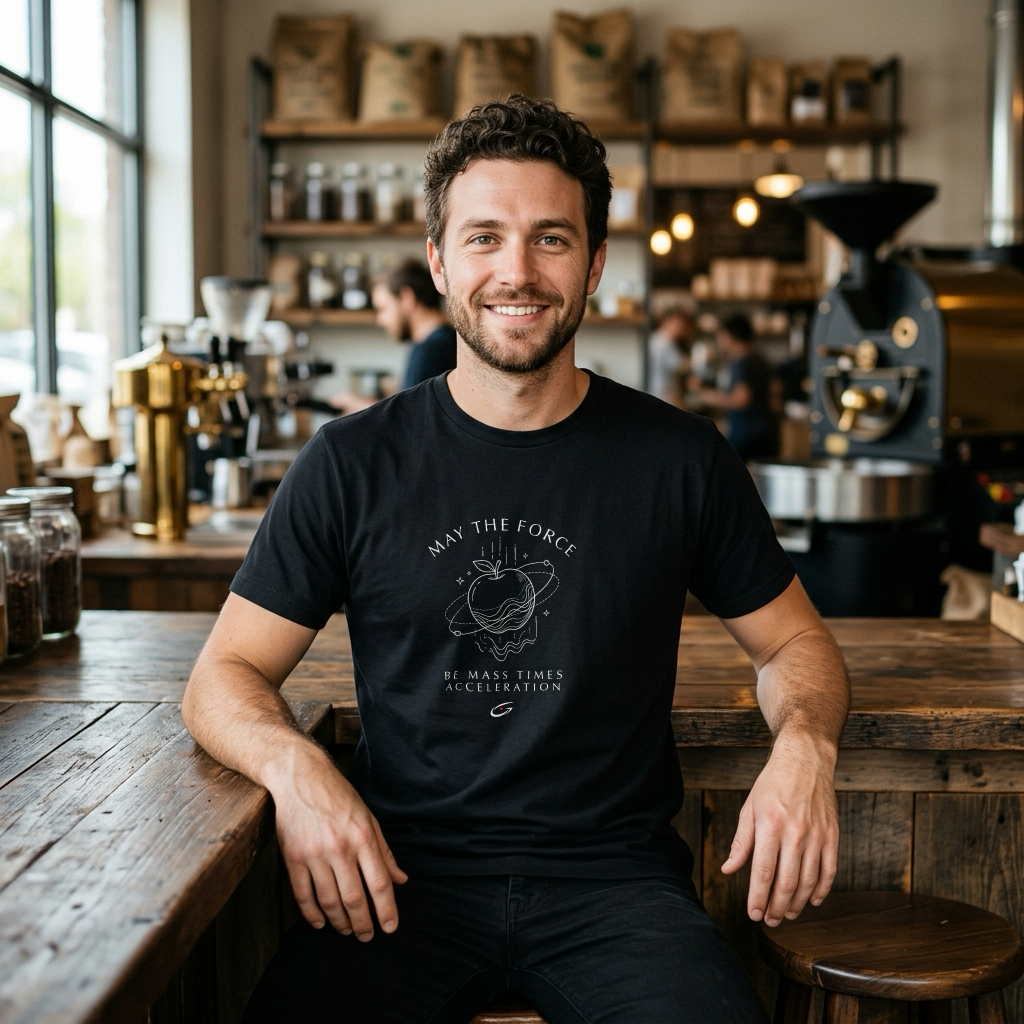
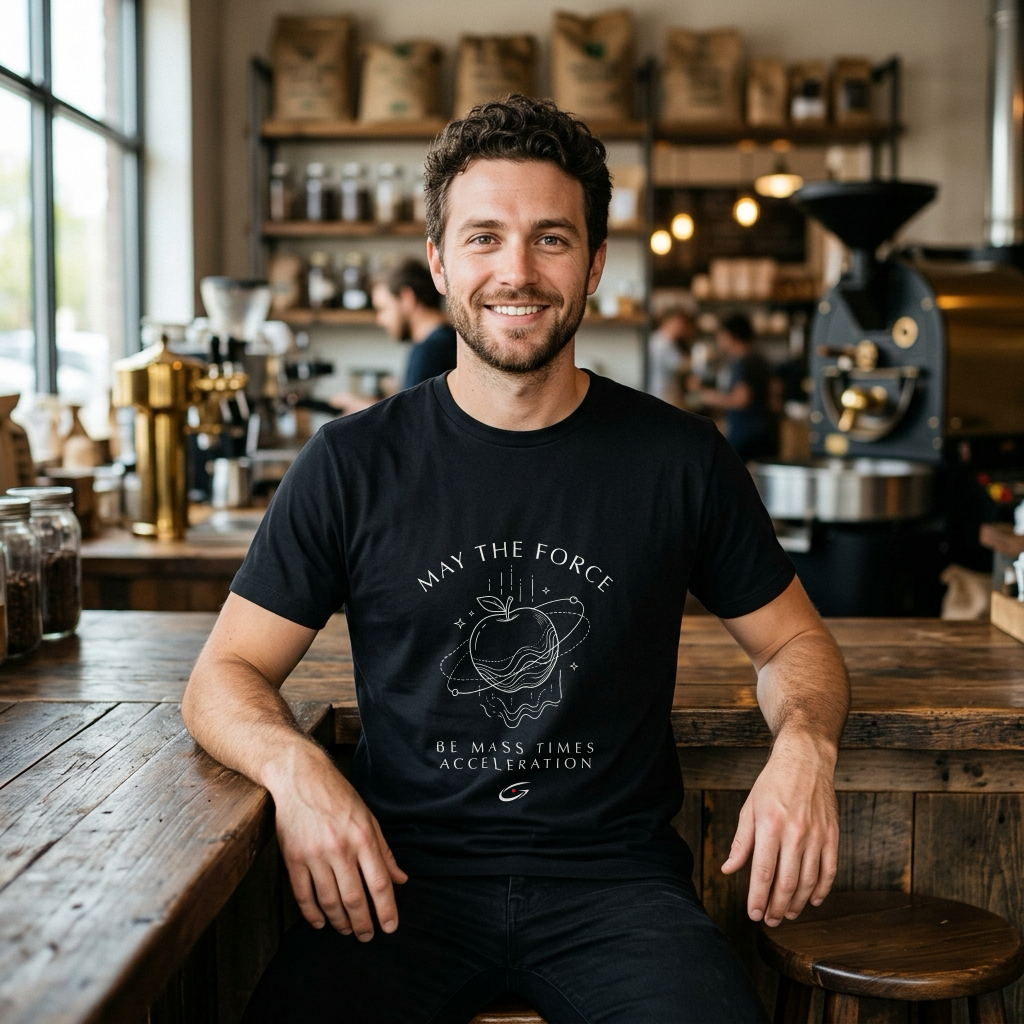
Update all 6 T-shirts with 8 unisex Printify-style placements (4M/4F, White & Black)

Changed region(s): [[0.4062, 0.5, 0.5938, 0.7812]]

diff --git a/index.html b/index.html
@@ -784,7 +784,7 @@
           <button class="filter-btn" data-topic="mechanics">Classical &amp; Thermodynamics</button>
         </div>
       </div>
-      <div class="count-label" id="countLabel">Showing 21 items &middot; 96 visuals</div>
+      <div class="count-label" id="countLabel">Showing 21 items &middot; 120 visuals</div>
     </div>
 
     <main id="catalogContainer"></main>
@@ -828,7 +828,7 @@
         topic: 'quantum',
         topicLabel: 'Quantum Mechanics',
         mugDesc: "Original hand-drawn split-character illustration blending an alive feline half with a skeletal half inside an open box, framed by orbital sparks on an 11oz white ceramic mug.",
-        tshirtDesc: "Centered chest print of the split alive/skeletal Schrödinger's Cat paradox across matte black, crisp white, and natural cream heavyweight cotton crew-neck tees.",
+        tshirtDesc: "Centered chest print of the split alive/skeletal Schrödinger's Cat paradox across matte black and crisp white relaxed unisex crew-neck tees.",
         hoodieDesc: "Pocket-safe centered chest print of the split alive/skeletal Schrödinger's Cat paradox across matte black and crisp white kangaroo-pocket pullover hoodies.",
         mugImages: [
           { src: './mugs/shrodingers/mockup.png',      label: 'Studio 11oz' },
@@ -839,10 +839,14 @@
         ],
         tshirtImages: [
           { src: './tshirts/shrodingers/mockup.png',      label: 'Studio (Black)' },
-          { src: './tshirts/shrodingers/placement_1.png', label: 'Record Store (White)' },
-          { src: './tshirts/shrodingers/placement_2.png', label: 'Rooftop (Cream)' },
-          { src: './tshirts/shrodingers/placement_3.png', label: 'Courtyard (Black)' },
-          { src: './tshirts/shrodingers/placement_4.png', label: 'Studio Lounge (Black)' }
+          { src: './tshirts/shrodingers/placement_1.png', label: 'M · White (Record Store)' },
+          { src: './tshirts/shrodingers/placement_2.png', label: 'M · White (Rooftop)' },
+          { src: './tshirts/shrodingers/placement_3.png', label: 'M · Black (Coworking)' },
+          { src: './tshirts/shrodingers/placement_4.png', label: 'M · Black (Roastery)' },
+          { src: './tshirts/shrodingers/placement_5.png', label: 'F · White (Studio)' },
+          { src: './tshirts/shrodingers/placement_6.png', label: 'F · White (Park Walk)' },
+          { src: './tshirts/shrodingers/placement_7.png', label: 'F · Black (Kitchen)' },
+          { src: './tshirts/shrodingers/placement_8.png', label: 'F · Black (Cafe)' }
         ],
         hoodieImages: [
           { src: './hoodies/shrodingers/mockup.png',      label: 'Studio (Black)' },
@@ -860,7 +864,7 @@
         topic: 'quantum',
         topicLabel: 'Atomic Physics',
         mugDesc: "Delicate Bohr-inspired orbital rings, nucleus cluster, and sine wave harmonics rendered in crisp minimalist line art on an 11oz white ceramic mug.",
-        tshirtDesc: "Fine-line atomic orbital diagram and harmonic sine waves printed across matte black, crisp white, and natural cream heavyweight cotton crew-neck tees.",
+        tshirtDesc: "Fine-line atomic orbital diagram and harmonic sine waves printed across matte black and crisp white relaxed unisex crew-neck tees.",
         hoodieDesc: "Fine-line atomic orbital diagram and harmonic sine waves printed cleanly above the kangaroo pocket across matte black and crisp white pullover hoodies.",
         mugImages: [
           { src: './mugs/atoms/mockup.png',      label: 'Studio 11oz' },
@@ -871,10 +875,14 @@
         ],
         tshirtImages: [
           { src: './tshirts/atoms/mockup.png',      label: 'Studio (Black)' },
-          { src: './tshirts/atoms/placement_1.png', label: 'Conservatory (White)' },
-          { src: './tshirts/atoms/placement_2.png', label: 'Park Walk (Cream)' },
-          { src: './tshirts/atoms/placement_3.png', label: 'Coworking (Black)' },
-          { src: './tshirts/atoms/placement_4.png', label: 'Window Cafe (Black)' }
+          { src: './tshirts/atoms/placement_1.png', label: 'M · White (Record Store)' },
+          { src: './tshirts/atoms/placement_2.png', label: 'M · White (Rooftop)' },
+          { src: './tshirts/atoms/placement_3.png', label: 'M · Black (Coworking)' },
+          { src: './tshirts/atoms/placement_4.png', label: 'M · Black (Roastery)' },
+          { src: './tshirts/atoms/placement_5.png', label: 'F · White (Studio)' },
+          { src: './tshirts/atoms/placement_6.png', label: 'F · White (Park Walk)' },
+          { src: './tshirts/atoms/placement_7.png', label: 'F · Black (Kitchen)' },
+          { src: './tshirts/atoms/placement_8.png', label: 'F · Black (Cafe)' }
         ],
         hoodieImages: [
           { src: './hoodies/atoms/mockup.png',      label: 'Studio (Black)' },
@@ -892,7 +900,7 @@
         topic: 'quantum',
         topicLabel: 'Electromagnetism',
         mugDesc: "Fine-line filament bulb with heart-shaped glowing wire, orbital electron paths, and frequency wave accents on an 11oz white ceramic mug.",
-        tshirtDesc: "Minimalist heart-filament lightbulb and electromagnetic frequency wave graphic printed across matte black, crisp white, and natural cream cotton crew-neck tees.",
+        tshirtDesc: "Minimalist heart-filament lightbulb and electromagnetic frequency wave graphic printed across matte black and crisp white relaxed unisex crew-neck tees.",
         hoodieDesc: "Minimalist heart-filament lightbulb and electromagnetic frequency wave graphic printed cleanly above the kangaroo pocket across matte black and crisp white hoodies.",
         mugImages: [
           { src: './mugs/love/mockup.png',      label: 'Studio 11oz' },
@@ -903,10 +911,14 @@
         ],
         tshirtImages: [
           { src: './tshirts/love/mockup.png',      label: 'Studio (Black)' },
-          { src: './tshirts/love/placement_1.png', label: 'Design Studio (White)' },
-          { src: './tshirts/love/placement_2.png', label: 'Window Bench (Cream)' },
-          { src: './tshirts/love/placement_3.png', label: 'Roastery (Black)' },
-          { src: './tshirts/love/placement_4.png', label: 'Courtyard (Black)' }
+          { src: './tshirts/love/placement_1.png', label: 'M · White (Record Store)' },
+          { src: './tshirts/love/placement_2.png', label: 'M · White (Rooftop)' },
+          { src: './tshirts/love/placement_3.png', label: 'M · Black (Coworking)' },
+          { src: './tshirts/love/placement_4.png', label: 'M · Black (Roastery)' },
+          { src: './tshirts/love/placement_5.png', label: 'F · White (Studio)' },
+          { src: './tshirts/love/placement_6.png', label: 'F · White (Park Walk)' },
+          { src: './tshirts/love/placement_7.png', label: 'F · Black (Kitchen)' },
+          { src: './tshirts/love/placement_8.png', label: 'F · Black (Cafe)' }
         ],
         hoodieImages: [
           { src: './hoodies/love/mockup.png',      label: 'Studio (Black)' },
@@ -924,7 +936,7 @@
         topic: 'mechanics',
         topicLabel: 'Classical Mechanics',
         mugDesc: "A sphere poised at the crest of a steep incline overlaid with dashed trajectory curves, harmonic waves, and celestial coordinates on an 11oz white ceramic mug.",
-        tshirtDesc: "Architectural incline diagram with poised sphere and orbital trajectories printed in crisp fine lines across matte black, crisp white, and cream cotton tees.",
+        tshirtDesc: "Architectural incline diagram with poised sphere and orbital trajectories printed in crisp fine lines across matte black and crisp white relaxed unisex tees.",
         hoodieDesc: "Architectural incline diagram with poised sphere and orbital trajectories printed cleanly above the kangaroo pocket across matte black and crisp white pullover hoodies.",
         mugImages: [
           { src: './mugs/energy/mockup.png',      label: 'Studio 11oz' },
@@ -935,10 +947,14 @@
         ],
         tshirtImages: [
           { src: './tshirts/energy/mockup.png',      label: 'Studio (Black)' },
-          { src: './tshirts/energy/placement_1.png', label: 'Conservatory (White)' },
-          { src: './tshirts/energy/placement_2.png', label: 'Veranda (Cream)' },
-          { src: './tshirts/energy/placement_3.png', label: 'Studio Lounge (Black)' },
-          { src: './tshirts/energy/placement_4.png', label: 'Coworking (Black)' }
+          { src: './tshirts/energy/placement_1.png', label: 'M · White (Record Store)' },
+          { src: './tshirts/energy/placement_2.png', label: 'M · White (Rooftop)' },
+          { src: './tshirts/energy/placement_3.png', label: 'M · Black (Coworking)' },
+          { src: './tshirts/energy/placement_4.png', label: 'M · Black (Roastery)' },
+          { src: './tshirts/energy/placement_5.png', label: 'F · White (Studio)' },
+          { src: './tshirts/energy/placement_6.png', label: 'F · White (Park Walk)' },
+          { src: './tshirts/energy/placement_7.png', label: 'F · Black (Kitchen)' },
+          { src: './tshirts/energy/placement_8.png', label: 'F · Black (Cafe)' }
         ],
         hoodieImages: [
           { src: './hoodies/energy/mockup.png',      label: 'Studio (Black)' },
@@ -956,7 +972,7 @@
         topic: 'mechanics',
         topicLabel: 'Newtonian Mechanics',
         mugDesc: "Newton's falling apple encircled by planetary orbits, gravitational field lines, and minimalist star accents on an 11oz white ceramic mug.",
-        tshirtDesc: "Newton's second law apple and orbital ring illustration printed across matte black, crisp white, and natural cream heavyweight cotton crew-neck tees.",
+        tshirtDesc: "Newton's second law apple and orbital ring illustration printed across matte black and crisp white relaxed unisex crew-neck tees.",
         hoodieDesc: "Newton's second law apple and orbital ring illustration printed cleanly above the kangaroo pocket across matte black and crisp white heavyweight pullover hoodies.",
         mugImages: [
           { src: './mugs/force/mockup.png',      label: 'Studio 11oz' },
@@ -967,10 +983,14 @@
         ],
         tshirtImages: [
           { src: './tshirts/force/mockup.png',      label: 'Studio (Black)' },
-          { src: './tshirts/force/placement_1.png', label: 'Record Store (White)' },
-          { src: './tshirts/force/placement_2.png', label: 'Park Walk (Cream)' },
-          { src: './tshirts/force/placement_3.png', label: 'Window Cafe (Black)' },
-          { src: './tshirts/force/placement_4.png', label: 'Roastery (Black)' }
+          { src: './tshirts/force/placement_1.png', label: 'M · White (Record Store)' },
+          { src: './tshirts/force/placement_2.png', label: 'M · White (Rooftop)' },
+          { src: './tshirts/force/placement_3.png', label: 'M · Black (Coworking)' },
+          { src: './tshirts/force/placement_4.png', label: 'M · Black (Roastery)' },
+          { src: './tshirts/force/placement_5.png', label: 'F · White (Studio)' },
+          { src: './tshirts/force/placement_6.png', label: 'F · White (Park Walk)' },
+          { src: './tshirts/force/placement_7.png', label: 'F · Black (Kitchen)' },
+          { src: './tshirts/force/placement_8.png', label: 'F · Black (Cafe)' }
         ],
         hoodieImages: [
           { src: './hoodies/force/mockup.png',      label: 'Studio (Black)' },
@@ -988,7 +1008,7 @@
         topic: 'mechanics',
         topicLabel: 'Thermodynamics',
         mugDesc: "Fine-line hourglass with flowing sand, intersecting wave functions, and dispersing orbital particles on an 11oz white ceramic mug.",
-        tshirtDesc: "Thermodynamic hourglass and wave-interference illustration printed across matte black, crisp white, and natural cream heavyweight cotton crew-neck tees.",
+        tshirtDesc: "Thermodynamic hourglass and wave-interference illustration printed across matte black and crisp white relaxed unisex crew-neck tees.",
         hoodieDesc: "Thermodynamic hourglass and wave-interference illustration printed cleanly above the kangaroo pocket across matte black and crisp white fleece pullover hoodies.",
         mugImages: [
           { src: './mugs/entropy/mockup.png',      label: 'Studio 11oz' },
@@ -999,10 +1019,14 @@
         ],
         tshirtImages: [
           { src: './tshirts/entropy/mockup.png',      label: 'Studio (Black)' },
-          { src: './tshirts/entropy/placement_1.png', label: 'Design Studio (White)' },
-          { src: './tshirts/entropy/placement_2.png', label: 'Rooftop (Cream)' },
-          { src: './tshirts/entropy/placement_3.png', label: 'Courtyard (Black)' },
-          { src: './tshirts/entropy/placement_4.png', label: 'Coworking (Black)' }
+          { src: './tshirts/entropy/placement_1.png', label: 'M · White (Record Store)' },
+          { src: './tshirts/entropy/placement_2.png', label: 'M · White (Rooftop)' },
+          { src: './tshirts/entropy/placement_3.png', label: 'M · Black (Coworking)' },
+          { src: './tshirts/entropy/placement_4.png', label: 'M · Black (Roastery)' },
+          { src: './tshirts/entropy/placement_5.png', label: 'F · White (Studio)' },
+          { src: './tshirts/entropy/placement_6.png', label: 'F · White (Park Walk)' },
+          { src: './tshirts/entropy/placement_7.png', label: 'F · Black (Kitchen)' },
+          { src: './tshirts/entropy/placement_8.png', label: 'F · Black (Cafe)' }
         ],
         hoodieImages: [
           { src: './hoodies/entropy/mockup.png',      label: 'Studio (Black)' },
@@ -1286,7 +1310,7 @@
             <section class="section-block">
               <div class="section-header">
                 <h2 class="section-title">Heavyweight Cotton T-Shirt Collection</h2>
-                <span class="section-subtitle">Printify 12&quot;&times;16&quot; Studio Mockups + 4 Model Placements &amp; Immutable 300 DPI Master PNGs (3000&times;3300)</span>
+                <span class="section-subtitle">Printify 12&quot;&times;16&quot; Studio Mockups + 8 Unisex Model Placements (4M / 4F) &amp; 300 DPI Masters</span>
               </div>
               <div class="grid">
                 ${tshirts.map(renderCardHTML).join('')}
